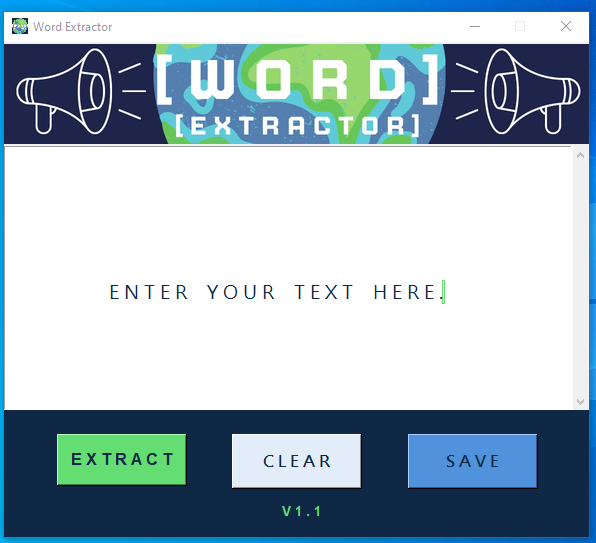
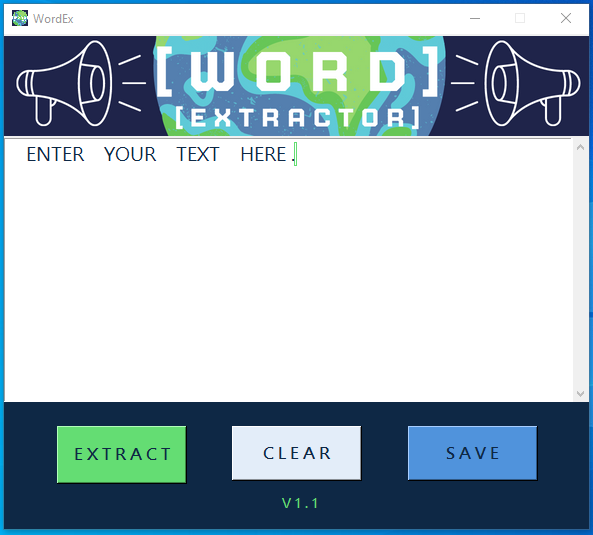
Updated the WordEx class
Updated the WordEx class, rewrote the text for the extractor method, and did a few refactoring

diff --git a/test/test_english_words.py b/test/test_english_words.py
@@ -14,42 +14,296 @@ class TestEnglishWords(unittest.TestCase):
         self.word_extractor = WordExtractor()
     
     
-    def test_white_space_char(self):
-        """
-         Extraction test with only white space character in sentence.
-        """
-        self.assertEqual(
-            self.word_extractor.extract_words("Hello world my name is Python"),
-            ['Hello', 'world', 'my', 'name', 'is', 'Python'])
- 
- 
-    def test_punctuation_marks(self):
-        """
-         Extraction test with a few punctuation marks in sentence.
-        """
-        self.assertEqual(
-            self.word_extractor.extract_words("Hello world!!, my name is Python."),
-            ['Hello', 'world', 'my', 'name', 'is', 'Python'])
-        
-        
-    def test_apostrophe_mark(self):
-        """
-         Extraction test with apostrophe mark in sentence.
-        """
-        self.assertEqual(
-            self.word_extractor.extract_words("You're not supposed to be here."),
-            ["You're", 'not', 'supposed', 'to', 'be', 'here'])
     
     
-    def test_numbers(self):
+    
+    def test_period(self):
         """
-         Extraction test with digits in sentence.
+        Extract words from a sentence with Period mark.
         """
-        self.assertEqual(
-            self.word_extractor.extract_words("A quirky, quick way to make an excellent point. It reminded me of CASIOSpk - when we used to type in 771077345 or more commonly 58008 into our calculators and turn them upside down to reveal the 'hilarious' results."),
-            
-            ['A', 'quirky', 'quick', 'way', 'to', 'make', 'an', 'excellent', 'point', 'It', 'reminded', 'me', 'of', 'CASIOSpk', 'when', 'we', 'used', 'to', 'type', 'in', 'or', 'more', 'commonly', 'into', 'our', 'calculators', 'and', 'turn', 'them', 'upside', 'down', 'to', 'reveal', 'the', "'hilarious'", 'results'])
-
+        sentence = "I got this pouch embossed."
+        result = self.word_extractor.extract_words(sentence)
+        expected = ['I', 'got', 'this', 'pouch', 'embossed']
+        self.assertEqual(result, expected)
+ 
+ 
+    
+    def test_question_mark(self):
+        """
+        Extract words from a sentence with a Question mark.
+        """
+        sentence = "How many toy trains does he have?"
+        result = self.word_extractor.extract_words(sentence)
+        expected = ['How', 'many', 'toy', 'trains', 'does', 'he', 'have']
+        self.assertEqual(result, expected)
+ 
+ 
+    
+    def test_exclamation_mark(self):
+        """
+        Extract words from a sentence with a Exclamation mark.
+        """
+        sentence = "Wow! You're a good driver."
+        result = self.word_extractor.extract_words(sentence)
+        expected = ['Wow', 'You\'re', 'a', 'good', 'driver']
+        self.assertEqual(result, expected)
+    
+ 
+ 
+    
+    def test_comma(self):
+        """
+        Extract words from a sentence with a Comma.
+        """
+        sentence = "I like the film, but the color grading is poor."
+        result = self.word_extractor.extract_words(sentence)
+        expected = ['I', 'like', 'the', 'film', 'but', 'the', 'color', 'grading', 'is', 'poor']
+        self.assertEqual(result, expected)
+    
+ 
+ 
+    
+    def test_colon(self):
+        """
+        Extract words from a sentence with a Colon.
+        """
+        sentence = "Here are some fun ideas for the party: dance-off, board games, scavenger hunt."
+        result = self.word_extractor.extract_words(sentence)
+        expected = ['Here', 'are', 'some', 'fun', 'ideas', 'for', 'the', 'party', 'dance-off', 'board', 'games', 'scavenger', 'hunt']
+        self.assertEqual(result, expected)
+    
+ 
+ 
+    
+    def test_semicolon(self):
+        """
+        Extract words from a sentence with a Semicolon.
+        """
+        sentence = "I'll visit you once I finish work; that's a promise."
+        result = self.word_extractor.extract_words(sentence)
+        expected = ['I\'ll', 'visit', 'you', 'once', 'I', 'finish','work', 'that\'s', 'a', 'promise']
+        self.assertEqual(result, expected)
+    
+ 
+ 
+    
+    def test_hyphen(self):
+        """
+        Extract words from a sentence with a Hyphen.
+        """
+        sentence = "I have ninety-nine problems, but chicken tenders can solve all of them."
+        result = self.word_extractor.extract_words(sentence)
+        expected = ['I', 'have', 'ninety-nine', 'problems', 'but', 'chicken', 'tenders', 'can', 'solve', 'all', 'of', 'them']
+        self.assertEqual(result, expected)
+    
+ 
+ 
+    
+    def test_en_dash(self):
+        """
+        Extract words from a sentence with a En dash.
+        """
+        sentence = "How long is a Tokyo–LA flight?"
+        result = self.word_extractor.extract_words(sentence)
+        expected = ['How', 'long', 'is', 'a', 'Tokyo–LA', 'flight']
+        self.assertEqual(result, expected)
+    
+ 
+ 
+    
+    def test_em_dash(self):
+        """
+        Extract words from a sentence with a Em dash.
+        """
+        sentence = "The cat—and I'm afraid of four-legged animals—was so adorable."
+        result = self.word_extractor.extract_words(sentence)
+        expected = ['The', 'cat', 'and', 'I\'m', 'afraid', 'of', 'four-legged', 'animals', 'was', 'so', 'adorable']
+        self.assertEqual(result, expected)
+    
+ 
+ 
+    
+    def test_parentheses(self):
+        """
+        Extract words from a sentence with a pair of Parentheses.
+        """
+        sentence = "His favorite team (Los Angeles Clippers) has a chance to win the title. "
+        result = self.word_extractor.extract_words(sentence)
+        expected = ['His', 'favorite', 'team', 'Los', 'Angeles', 'Clippers', 'has', 'a', 'chance', 'to', 'win', 'the', 'title']
+        self.assertEqual(result, expected)
+    
+ 
+ 
+    
+    def test_square_brackets(self):
+        """
+        Extract words from a sentence with a pair of Square brackets.
+        """
+        sentence = "The staff writer said the \"[head] of basketball operations was disappointed.\""
+        result = self.word_extractor.extract_words(sentence)
+        expected = ['The', 'staff', 'writer', 'said', 'the', 'head', 'of', 'basketball', 'operations', 'was', 'disappointed']
+        self.assertEqual(result, expected)
+    
+ 
+ 
+    
+    def test_curly_brackets(self):
+        """
+        Extract words from a sentence with a pair of Curly brackets.
+        """
+        sentence = "The colors {red, green, lilac, red} are for the accent wall."
+        result = self.word_extractor.extract_words(sentence)
+        expected = ['The', 'colors', 'red', 'green', 'lilac', 'red', 'are', 'for', 'the', 'accent', 'wall']
+        self.assertEqual(result, expected)
+    
+ 
+ 
+    
+    def test_angle_brackets(self):
+        """
+        Extract words from a sentence with a pair of Angle brackets.
+        """
+        sentence = "Angle brackets see more usage in fields such as mathematics or computer programming than they do in writing. In math, for example, a single angle bracket is commonly used to mean that something is “less than” (<) or “greater than” (>) something else."
+        result = self.word_extractor.extract_words(sentence)
+        expected = ['Angle', 'brackets', 'see', 'more', 'usage', 'in', 'fields', 'such', 'as', 'mathematics', 'or', 'computer', 'programming', 'than', 'they', 'do', 'in', 'writing', 'In', 'math', 'for', 'example', 'a', 'single', 'angle', 'bracket', 'is', 'commonly', 'used', 'to', 'mean', 'that', 'something', 'is', 'less', 'than', 'or', 'greater', 'than', 'something', 'else']
+        self.assertEqual(result, expected)
+    
+ 
+ 
+    
+    def test_quotation_marks(self):
+        """
+        Extract words from a sentence with a pair of Quotation marks.
+        """
+        sentence = "Dylan called it a “splendid affair.”"
+        result = self.word_extractor.extract_words(sentence)
+        expected = ['Dylan', 'called', 'it', 'a', 'splendid', 'affair']
+        self.assertEqual(result, expected)
+    
+ 
+ 
+    
+    def test_apostrophe(self):
+        """
+        Extract words from a sentence with a Apostrophe.
+        """
+        sentence = "Some of Jerry’s gadgets are missing."
+        result = self.word_extractor.extract_words(sentence)
+        expected = ['Some', 'of', 'Jerry’s', 'gadgets', 'are', 'missing']
+        self.assertEqual(result, expected)
+    
+ 
+ 
+    
+    def test_slash_or_virgule(self):
+        """
+        Extract words from a sentence with a Slash or Virgule.
+        """
+        sentence = "I’m getting a lipstick/phone case/necklace for her birthday."
+        result = self.word_extractor.extract_words(sentence)
+        expected = ['I’m', 'getting', 'a', 'lipstick', 'phone', 'case', 'necklace', 'for', 'her', 'birthday']
+        self.assertEqual(result, expected)
+    
+ 
+ 
+    
+    def test_ellipses(self):
+        """
+        Extract words from a sentence with a Ellipses.
+        """
+        sentence = "According to the staff writer, the “president… was disappointed.”"
+        result = self.word_extractor.extract_words(sentence)
+        expected = ['According', 'to', 'the', 'staff', 'writer', 'the', 'president', 'was', 'disappointed']
+        self.assertEqual(result, expected)
+    
+ 
+ 
+    
+    def test_asterisk(self):
+        """
+        Extract words from a sentence with a Asterisk.
+        """
+        sentence = "*Data from The Journal of Acting Ethics."
+        result = self.word_extractor.extract_words(sentence)
+        expected = ['Data', 'from', 'The', 'Journal', 'of', 'Acting', 'Ethics']
+        self.assertEqual(result, expected)
+    
+ 
+ 
+    
+    def test_ampersand(self):
+        """
+        Extract words from a sentence with a Ampersand.
+        """
+        sentence = "Tiffany & Co."
+        result = self.word_extractor.extract_words(sentence)
+        expected = ['Tiffany', 'Co']
+        self.assertEqual(result, expected)
+    
+ 
+ 
+    
+    def test_pound_symbol(self):
+        """
+        Extract words from a sentence with a Pound symbol.
+        """
+        sentence = "#1 Bestselling."
+        result = self.word_extractor.extract_words(sentence)
+        expected = ['Bestselling']
+        self.assertEqual(result, expected)
+    
+    
+ 
+ 
+    
+    def test_tilde(self):
+        """
+        Extract words from a sentence with a Tilde.
+        """
+        sentence = "I think Govine owns ~10 pairs of shoes."
+        result = self.word_extractor.extract_words(sentence)
+        expected = ['I', 'think', 'Govine', 'owns', 'pairs', 'of', 'shoes']
+        self.assertEqual(result, expected)
+    
+    
+ 
+ 
+    
+    def test_backslash(self):
+        """
+        Extract words from a sentence with a Backslash.
+        """
+        sentence = "In Python strings, the backslash \\ is a special character, also called the 'escape' character. "
+        result = self.word_extractor.extract_words(sentence)
+        expected = ['In', 'Python', 'strings', 'the', 'backslash', 'is', 'a', 'special', 'character', 'also', 'called', 'the', '\'escape\'', 'character']
+        self.assertEqual(result, expected)
+    
+    
+ 
+ 
+    
+    def test_at_symbol(self):
+        """
+        Extract words from a sentence with a At symbol.
+        """
+        sentence = "Report bugs to devgovine.apps@gmail.com"
+        result = self.word_extractor.extract_words(sentence)
+        expected = ['Report', 'bugs', 'to', 'devgovine', 'apps', 'gmail', 'com']
+        self.assertEqual(result, expected)
+    
+    
+ 
+ 
+    
+    def test_pipe_symbol(self):
+        """
+        Extract words from a sentence with a Pipe symbol.
+        """
+        sentence = "A pipe symbol is a typographical mark that resembles a vertical line ( | )."
+        result = self.word_extractor.extract_words(sentence)
+        expected = ['A', 'pipe', 'symbol', 'is', 'a', 'typographical', 'mark', 'that', 'resembles', 'a', 'vertical', 'line']
+        self.assertEqual(result, expected)
+    
 
 
 

diff --git a/lib/WEx_App.py b/lib/WEx_App.py
@@ -19,7 +19,7 @@ class WordExApp:
         self.WExTopLevel.geometry("585x495+355+100")
         self.WExTopLevel.iconphoto(True, self.img_WEx_Logo)
         self.WExTopLevel.resizable(False, False)
-        self.WExTopLevel.title("Word Extractor")
+        self.WExTopLevel.title("WordEx")
         
         
         # Creating the main frame to place all widgets
@@ -235,7 +235,7 @@ class WordExApp:
         if len(text_entered) > 0 and first_index == '[' and text_entered.count(']') == 1:
             
             # Creating file dialog to save the extracted words
-            _filename = filedialog.asksaveasfile('w', title='Word Ex - Save Words', defaultextension='.txt') 
+            _filename = filedialog.asksaveasfile('w', title='WordEx - Save Words', defaultextension='.txt') 
             
             
             # Check if the file was given a name before saving
@@ -250,7 +250,7 @@ class WordExApp:
             
             else:
                 # Tell the user to give the file a name before the file can be saved.
-                give_name_or_cancel = messagebox.askyesno('Word Ex - Not Saved', 'Please give the file a name for it to be saved.\nDo you want to try again ?')
+                give_name_or_cancel = messagebox.askyesno('WordEx - Not Saved', 'Please give the file a name for it to be saved.\nDo you want to try again ?')
             
                 if give_name_or_cancel:
                     self.save_words_to_file()

diff --git a/lib/word_extractor.py b/lib/word_extractor.py
@@ -15,9 +15,9 @@ class WordExtractor:
 
     """
     def __init__(self) -> None:
-        spanish_french_chars = '¿¡«»€—–-'
-        self.space_char = ' '                  # Allowing the Apostrophe mark "'".
-        self.not_allowed_chars = '0123456789' +spanish_french_chars+punctuation.replace("'","") + self.space_char
+        illegal_punctuation = "\"“”!#$%&()*+,./:;<=>?@[\]^_—`{|}~…¿¡«»€"
+        self.space_char = ' '
+        self.not_allowed_chars = '0123456789' + illegal_punctuation + self.space_char
 
             
     
